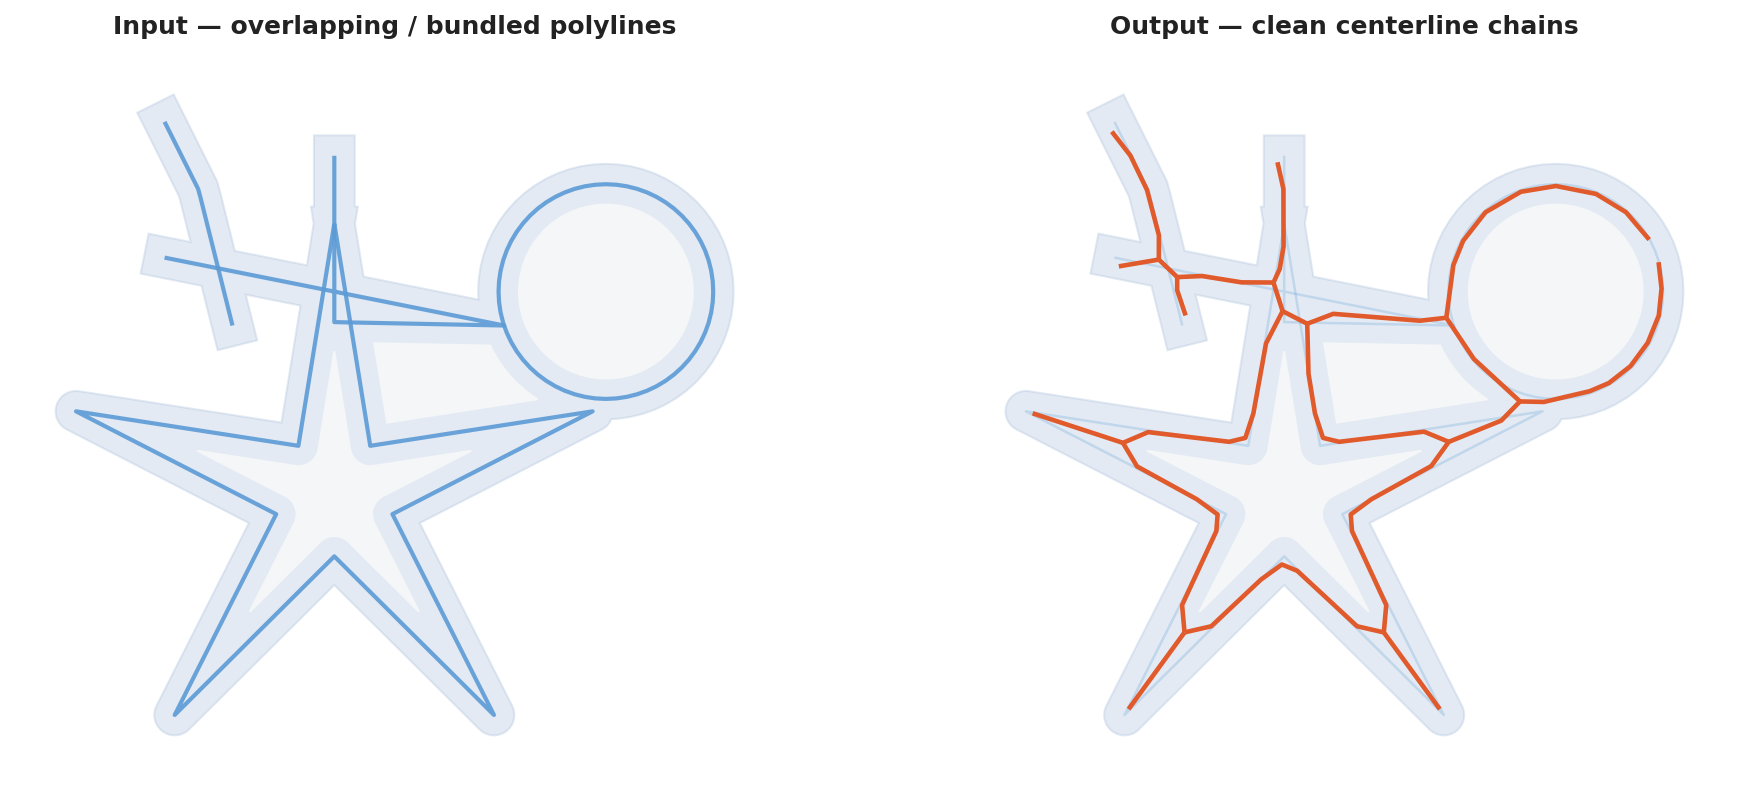
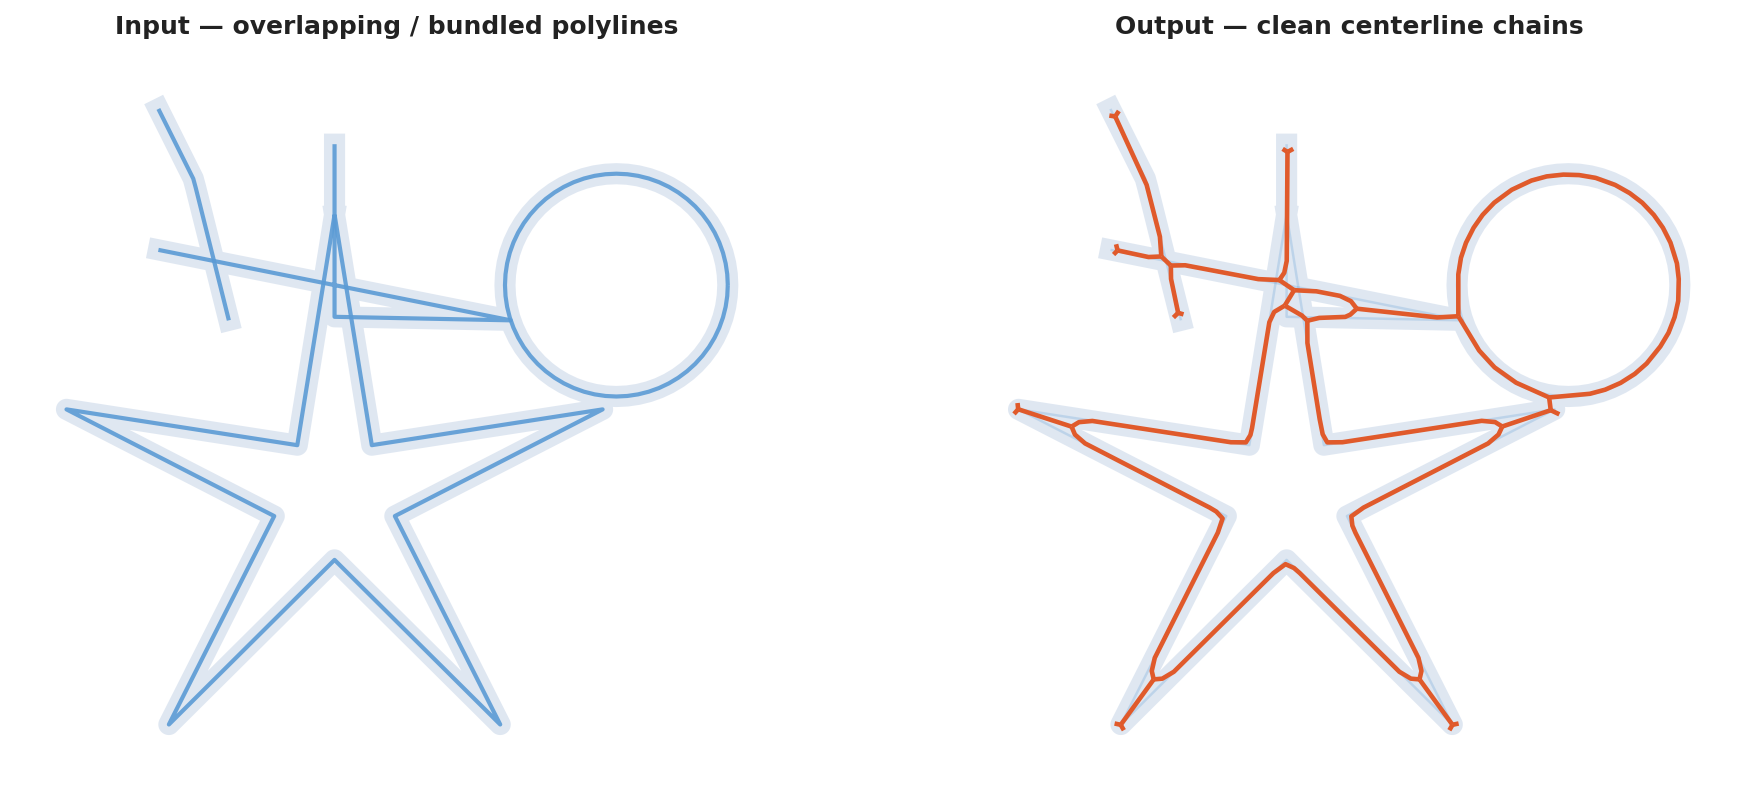
Lower short-edge threshold from 1.9x to 1.5x buffer_distance
1.9x was clipping skeleton connections in thin curved annular regions
(e.g. circular strokes at small buffer sizes) where CDT interior edges
measure close to 2x buffer but angle slightly below the 1.9x threshold.
1.5x retains the pruning of boundary-noise spurs while allowing valid
skeleton connections at tighter curves.

diff --git a/src/skeleton_cdt.rs b/src/skeleton_cdt.rs
@@ -13,7 +13,7 @@ type Segment = (Pt, Pt);
 
 /// Build the midpoint-graph skeleton using the `cdt` crate.
 pub fn skeletonize(outer: &[Pt], holes: &[Vec<Pt>], buffer_distance: f64) -> Vec<Segment> {
-    midpoint_segments(outer, holes, buffer_distance, 1.9)
+    midpoint_segments(outer, holes, buffer_distance, 1.5)
 }
 
 fn midpoint_segments(
